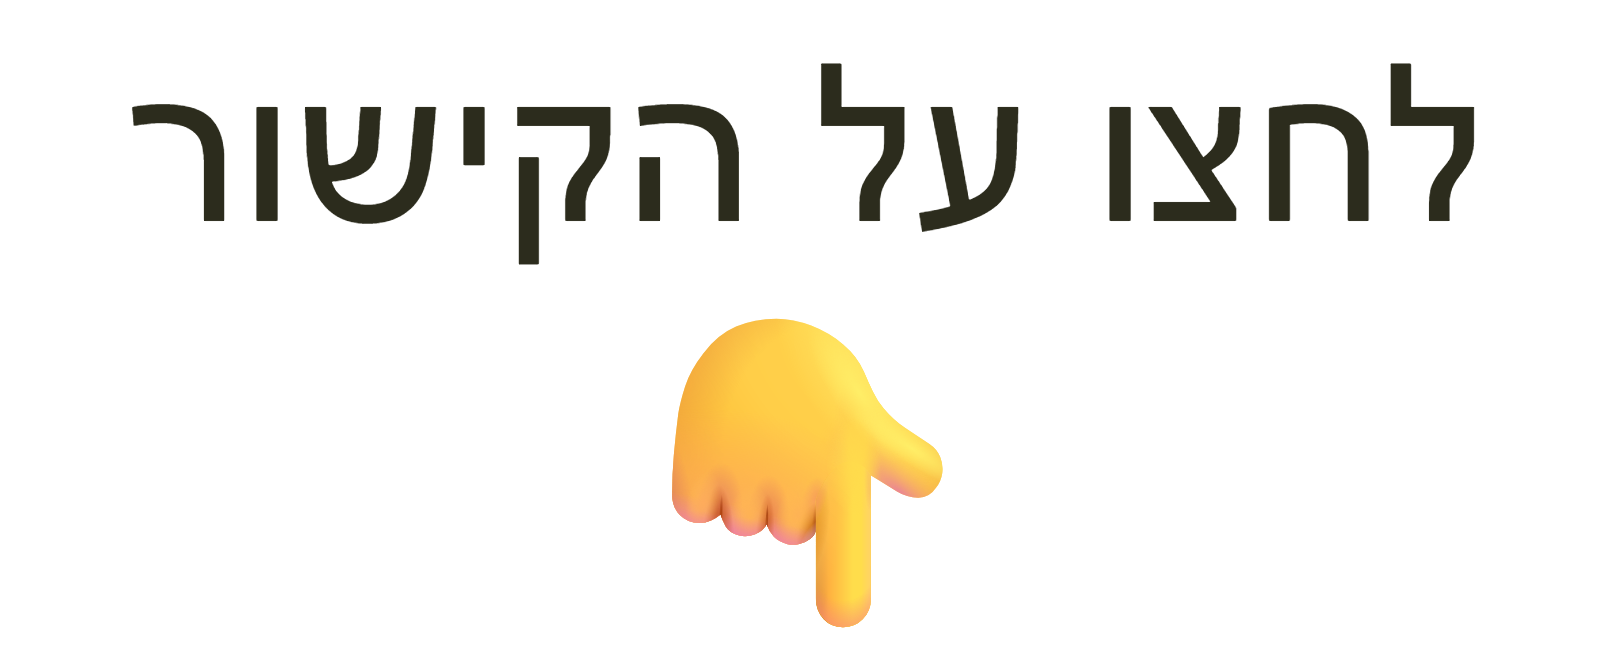
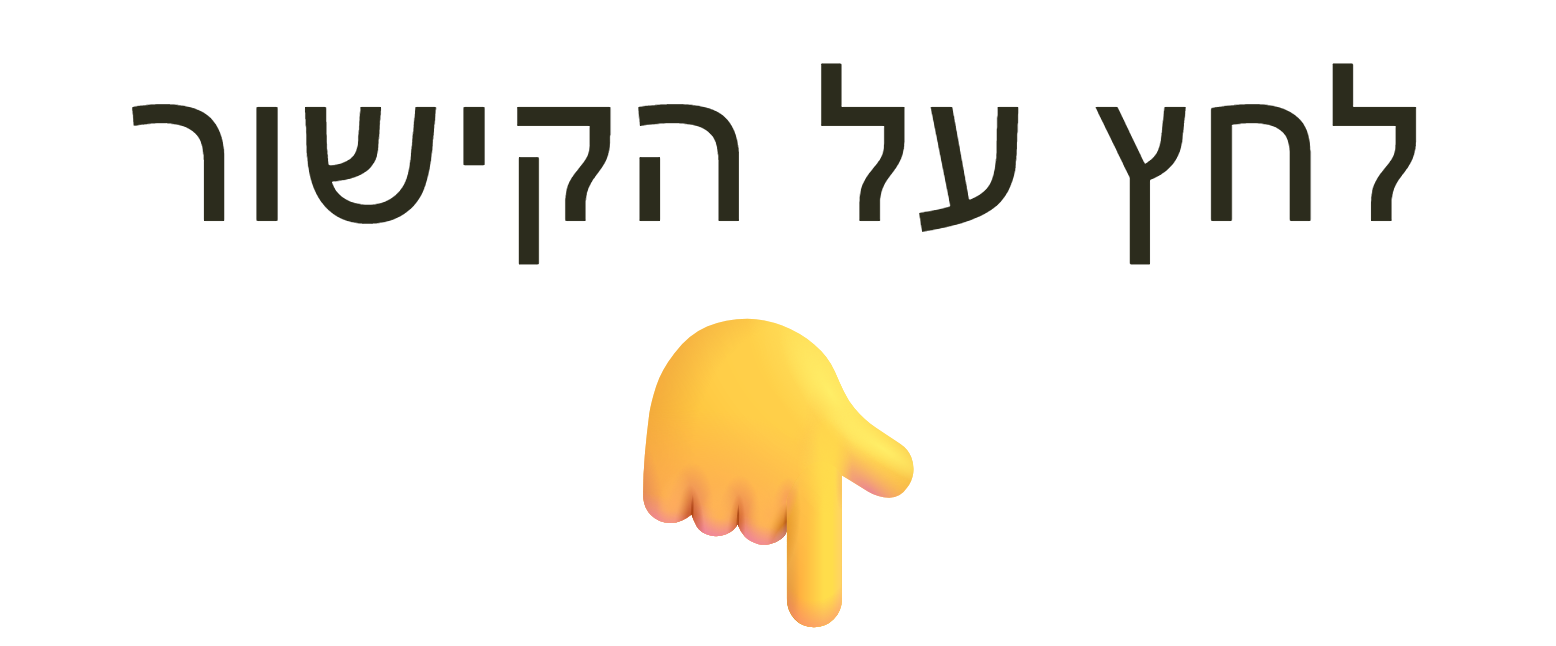
CTA text to masculine singular: tzarich/lchatz (not plural)

diff --git a/closer-1-merge.html b/closer-1-merge.html
@@ -6,10 +6,10 @@
 <title>סגיר 1 · החיבור</title>
 <link rel="preconnect" href="https://fonts.googleapis.com">
 <link href="https://fonts.googleapis.com/css2?family=Rubik:wght@400;500;700&display=swap" rel="stylesheet">
-<link rel="stylesheet" href="closer.css?v=7">
+<link rel="stylesheet" href="closer.css?v=8">
 </head>
 <body data-concept="merge" data-bg="porcelain">
 <script src="gsap.min.js"></script>
-<script src="closer-engine.js?v=7"></script>
+<script src="closer-engine.js?v=8"></script>
 </body>
 </html>

diff --git a/closer-2-stamp.html b/closer-2-stamp.html
@@ -6,10 +6,10 @@
 <title>סגיר 2 · החותם</title>
 <link rel="preconnect" href="https://fonts.googleapis.com">
 <link href="https://fonts.googleapis.com/css2?family=Rubik:wght@400;500;700&display=swap" rel="stylesheet">
-<link rel="stylesheet" href="closer.css?v=7">
+<link rel="stylesheet" href="closer.css?v=8">
 </head>
 <body data-concept="together" data-bg="cream">
 <script src="gsap.min.js"></script>
-<script src="closer-engine.js?v=7"></script>
+<script src="closer-engine.js?v=8"></script>
 </body>
 </html>

diff --git a/closer-3-cinematic.html b/closer-3-cinematic.html
@@ -6,10 +6,10 @@
 <title>סגיר 3 · חשיפה קולנועית</title>
 <link rel="preconnect" href="https://fonts.googleapis.com">
 <link href="https://fonts.googleapis.com/css2?family=Rubik:wght@400;500;700&display=swap" rel="stylesheet">
-<link rel="stylesheet" href="closer.css?v=7">
+<link rel="stylesheet" href="closer.css?v=8">
 </head>
 <body data-concept="pop" data-bg="spotlight">
 <script src="gsap.min.js"></script>
-<script src="closer-engine.js?v=7"></script>
+<script src="closer-engine.js?v=8"></script>
 </body>
 </html>

diff --git a/closer-3b.html b/closer-3b.html
@@ -6,10 +6,10 @@
 <title>סגיר 3 · וריאציה B</title>
 <link rel="preconnect" href="https://fonts.googleapis.com">
 <link href="https://fonts.googleapis.com/css2?family=Rubik:wght@400;500;700&display=swap" rel="stylesheet">
-<link rel="stylesheet" href="closer.css?v=7">
+<link rel="stylesheet" href="closer.css?v=8">
 </head>
 <body data-concept="pop" data-bg="spotlight" data-helpline="helpline-b.png">
 <script src="gsap.min.js"></script>
-<script src="closer-engine.js?v=7"></script>
+<script src="closer-engine.js?v=8"></script>
 </body>
 </html>

diff --git a/closer-3c.html b/closer-3c.html
@@ -6,10 +6,10 @@
 <title>סגיר 3 · וריאציה C</title>
 <link rel="preconnect" href="https://fonts.googleapis.com">
 <link href="https://fonts.googleapis.com/css2?family=Rubik:wght@400;500;700&display=swap" rel="stylesheet">
-<link rel="stylesheet" href="closer.css?v=7">
+<link rel="stylesheet" href="closer.css?v=8">
 </head>
 <body data-concept="pop" data-bg="spotlight" data-helpline="helpline-c.png">
 <script src="gsap.min.js"></script>
-<script src="closer-engine.js?v=7"></script>
+<script src="closer-engine.js?v=8"></script>
 </body>
 </html>

diff --git a/closer-4-draw.html b/closer-4-draw.html
@@ -6,10 +6,10 @@
 <title>סגיר 4 · קו הזהות</title>
 <link rel="preconnect" href="https://fonts.googleapis.com">
 <link href="https://fonts.googleapis.com/css2?family=Rubik:wght@400;500;700&display=swap" rel="stylesheet">
-<link rel="stylesheet" href="closer.css?v=7">
+<link rel="stylesheet" href="closer.css?v=8">
 </head>
 <body data-concept="draw" data-bg="sand">
 <script src="gsap.min.js"></script>
-<script src="closer-engine.js?v=7"></script>
+<script src="closer-engine.js?v=8"></script>
 </body>
 </html>

diff --git a/closer-5-minimal.html b/closer-5-minimal.html
@@ -6,10 +6,10 @@
 <title>סגיר 5 · מינימל לבן</title>
 <link rel="preconnect" href="https://fonts.googleapis.com">
 <link href="https://fonts.googleapis.com/css2?family=Rubik:wght@400;500;700&display=swap" rel="stylesheet">
-<link rel="stylesheet" href="closer.css?v=7">
+<link rel="stylesheet" href="closer.css?v=8">
 </head>
 <body data-concept="minimal" data-bg="white">
 <script src="gsap.min.js"></script>
-<script src="closer-engine.js?v=7"></script>
+<script src="closer-engine.js?v=8"></script>
 </body>
 </html>

diff --git a/closer-engine.js b/closer-engine.js
@@ -16,14 +16,14 @@
         <img class="hatL" id="hatL" src="assets/hat.png" alt="">
         <img class="hatR" id="hatR" src="assets/hat.png" alt="">
         <img class="logoFull" id="logoFull" src="assets/logo-text.png" alt="חרדים לצבא">
-        <img class="helpline" id="helpline" src="assets/helpline-a.png" alt="קריאה לפעולה">
+        <img class="helpline" id="helpline" src="assets/helpline-a.png?v=8" alt="קריאה לפעולה">
       </div>
     </div>`;
   body.appendChild(frame);
 
   // וריאציית CTA (אופציה 3) — מתחלפת לפי data-helpline ב-body
   const hlVar = body.dataset.helpline;
-  if (hlVar) document.getElementById("helpline").src = "assets/" + hlVar;
+  if (hlVar) document.getElementById("helpline").src = "assets/" + hlVar + "?v=8";
 
   const stage = document.getElementById("stage");
 

diff --git a/variations.html b/variations.html
@@ -53,8 +53,8 @@
 
 <script>
   const vars = [
-    {n:"1", cta:"צריכים עזרה?",   file:"closer-3-cinematic.html", mp4:"closer-3.mp4",  dl:"חרדים-לצבא-אופציה3-עזרה.mp4"},
-    {n:"2", cta:"לחצו על הקישור", file:"closer-3b.html",          mp4:"closer-3b.mp4", dl:"חרדים-לצבא-אופציה3-קישור.mp4"},
+    {n:"1", cta:"צריך עזרה?",     file:"closer-3-cinematic.html", mp4:"closer-3.mp4",  dl:"חרדים-לצבא-אופציה3-עזרה.mp4"},
+    {n:"2", cta:"לחץ על הקישור",  file:"closer-3b.html",          mp4:"closer-3b.mp4", dl:"חרדים-לצבא-אופציה3-קישור.mp4"},
     {n:"3", cta:"לפרטים נוספים",  file:"closer-3c.html",          mp4:"closer-3c.mp4", dl:"חרדים-לצבא-אופציה3-פרטים.mp4"},
   ];
   const grid = document.getElementById("grid");